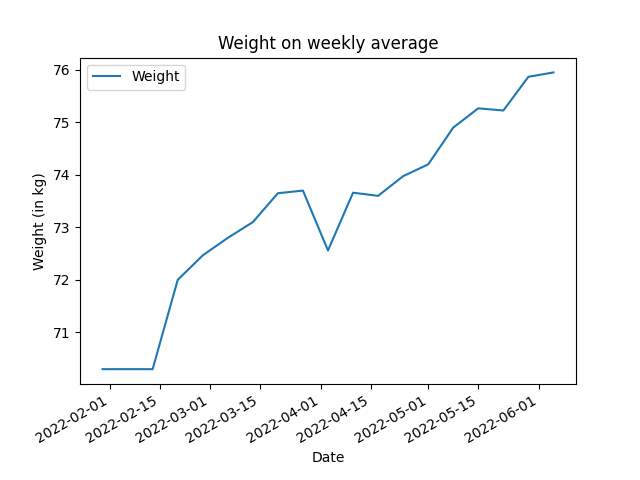
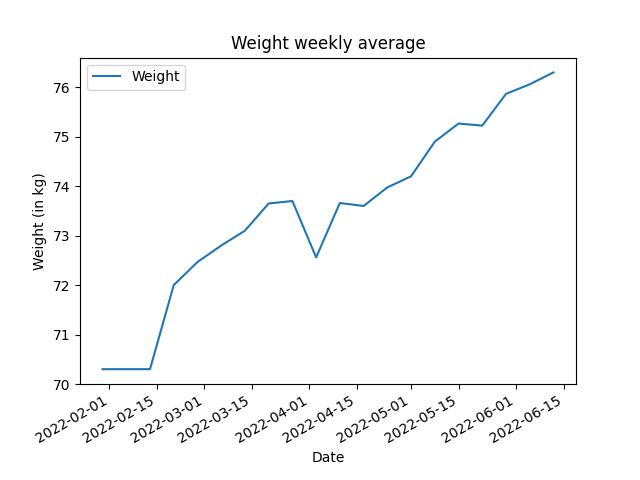
Created script to update README with latest data

diff --git a/weekly-avg.py b/weekly-avg.py
@@ -1,7 +1,12 @@
+from tkinter.tix import IMAGE
 import matplotlib.pyplot as plt
 import pandas as pd
+import plotly.figure_factory as ff
+from datetime import date
 
 PATH = 'weight-data.csv'
+IMAGE_PATH = 'weight-week-avg.png'
+AUTOGEN_MD_PATH = "autogen.md"
 
 # Read in weight data and resample to average on weekly basis
 w_data = pd.read_csv(PATH, sep=",")
@@ -9,21 +14,37 @@ w_data["Date"] = pd.to_datetime(w_data["Date"])
 w_data = w_data.set_index("Date")
 w_data = w_data.resample("W").mean().dropna(axis="index", how="any")
 
-
 # calculate weekly difference
 diff = w_data.diff()
 print(diff)
 print(f"Average week-to-week gain: {diff.mean()}")
 
+today = date.today()
+today_str = today.strftime('%Y/%m/%d')
 
 # plot data
 w_data.plot()
 plt.ylabel("Weight (in kg)")
 plt.xlabel("Date")
-plt.title("Weight on weekly average")
-plt.savefig("weight-week-avg.png")
+plt.title(f"Weight weekly average")
+plt.savefig(IMAGE_PATH)
 plt.show()
 
+# EXPORT Data
+# auto-generate markdown text to include in README.md
+md_text = diff.to_markdown()
+out_file = open(AUTOGEN_MD_PATH, "w+")
 
+# Format generated data in markdown
+out_file.write(f"## Weight Data (as of {today_str})\n\n")
 
+# create heading and data for diff table
+out_file.write(f"### Weekly difference\n")
+out_file.write(md_text + "\n\n")
+
+# Create image embedding
+out_file.write(f"### Average Weight per week\n")
+out_file.write(f"![Weekly weight average plot](weight-week-avg.png)\n\n")
+
+out_file.close()
 

diff --git a/update-md.py b/update-md.py
@@ -1,0 +1,26 @@
+
+# File paths
+# todo save constants in a config file or something and import
+AUTOGEN_MD_PATH = "autogen.md"
+MANUAL_MD_PATH = "manual.md"
+OUT_PATH = "README.md"
+
+# Open files
+readme = open(OUT_PATH, "w+")
+manual = open(MANUAL_MD_PATH, "r")
+autogen = open(AUTOGEN_MD_PATH, "r")
+
+
+# write contents of MANUAL_MD_PATH and AUTOGEN_MD_PATH to OUT_PATH
+for _, line in enumerate(manual):
+    readme.write(line)
+
+for _, line in enumerate(autogen):
+    readme.write(line)
+
+# close files
+readme.close()
+manual.close()
+autogen.close()
+
+

diff --git a/weight-tracking.py b/weight-tracking.py
@@ -1,6 +1,5 @@
 from datetime import datetime
 import csv
-from sqlite3 import DateFromTicks
 
 DATE_FORMAT = "%Y-%m-%d"
 FILE = "weight-data.csv"

diff --git a/README.md b/README.md
@@ -1,6 +1,35 @@
-# weight-tracking
+# Weight Tracking and Forecasting Project
 Start of a project where I *attempt* to use MyFitnessPal's API to retrieve my user data and process it in some way (TBD).
 
+## TODO
+- Find a way to retrieve data from MyFitnessPal storage. Currently, an API key must be requested from API team before access to logged data can be obtained.
+- Process for time-series forecasting (GPR?)
 
-## Graph of weekly weight average
+## Weight Data (as of 2022/06/06)
+
+### Weekly difference
+| Date                |      Weight |
+|:--------------------|------------:|
+| 2022-01-30 00:00:00 | nan         |
+| 2022-02-13 00:00:00 |   0         |
+| 2022-02-20 00:00:00 |   1.7       |
+| 2022-02-27 00:00:00 |   0.466667  |
+| 2022-03-06 00:00:00 |   0.333333  |
+| 2022-03-13 00:00:00 |   0.3       |
+| 2022-03-20 00:00:00 |   0.55      |
+| 2022-03-27 00:00:00 |   0.05      |
+| 2022-04-03 00:00:00 |  -1.14      |
+| 2022-04-10 00:00:00 |   1.1       |
+| 2022-04-17 00:00:00 |  -0.06      |
+| 2022-04-24 00:00:00 |   0.375     |
+| 2022-05-01 00:00:00 |   0.225     |
+| 2022-05-08 00:00:00 |   0.7       |
+| 2022-05-15 00:00:00 |   0.366667  |
+| 2022-05-22 00:00:00 |  -0.0416667 |
+| 2022-05-29 00:00:00 |   0.641667  |
+| 2022-06-05 00:00:00 |   0.193333  |
+| 2022-06-12 00:00:00 |   0.24      |
+
+### Average Weight per week
 ![Weekly weight average plot](weight-week-avg.png)
+
